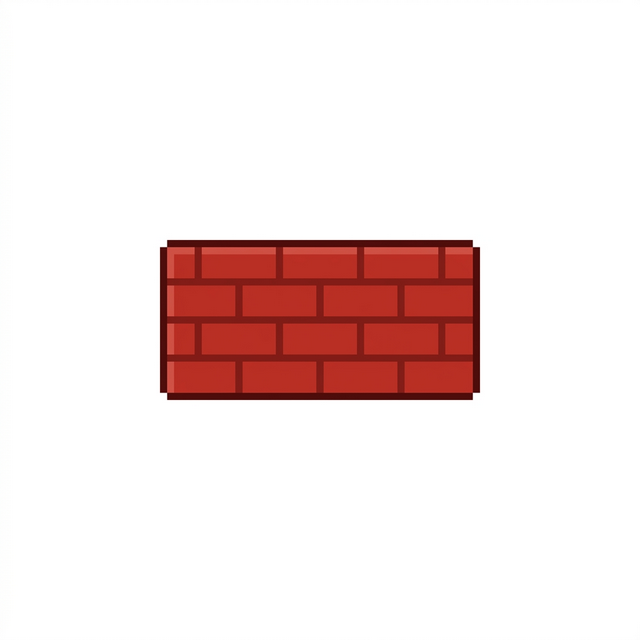
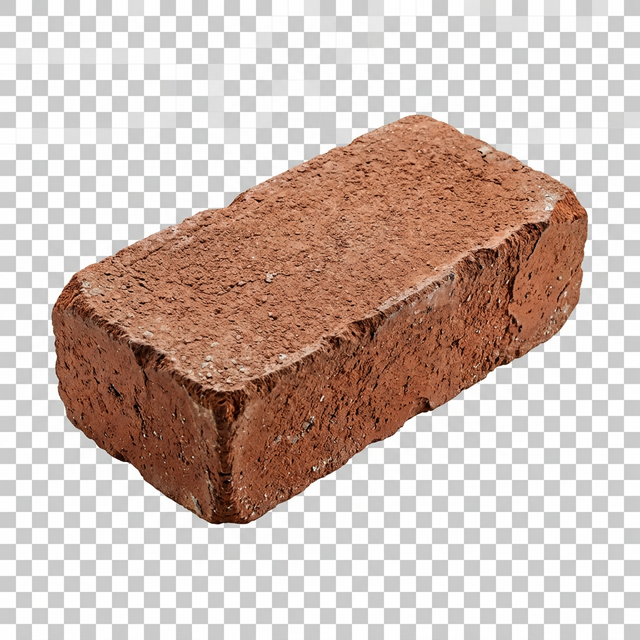
Fundos Out

diff --git a/script.js b/script.js
@@ -83,6 +83,8 @@ function setupLevel(levelIdx) {
     car = Bodies.rectangle(100, 100, 64, 32, {
         chamfer: { radius: 5 },
         frictionAir: 0.05,
+        friction: 0.2,
+        restitution: 0.1,
         render: {
             sprite: {
                 texture: 'assets/car.png',
@@ -112,17 +114,22 @@ function setupLevel(levelIdx) {
 }
 
 function spawnLevelElements(numPeople) {
-    // Obstáculos (Tijolos)
+    // Obstáculos (Tijolos) - Agora são barreiras físicas reais
     for (let i = 0; i < 15; i++) {
         const x = Math.random() * (window.innerWidth - 200) + 100;
         const y = Math.random() * (window.innerHeight - 200) + 100;
-        const brick = Bodies.rectangle(x, y, 40, 20, {
+
+        // Aumentamos o tamanho físico para garantir que bloqueiem o carro
+        const brick = Bodies.rectangle(x, y, 60, 30, {
             isStatic: true,
+            label: 'obstacle',
+            friction: 1,
+            restitution: 0.1, // Pouco rebote para parecer sólido
             render: {
                 sprite: {
                     texture: 'assets/brick.png',
-                    xScale: 0.1,
-                    yScale: 0.1
+                    xScale: 0.12, // Ajustado para a nova imagem transparente
+                    yScale: 0.12
                 }
             }
         });
@@ -140,8 +147,8 @@ function spawnLevelElements(numPeople) {
             render: {
                 sprite: {
                     texture: 'assets/stickman.png',
-                    xScale: 0.1,
-                    yScale: 0.1
+                    xScale: 0.15, // Ajustado para a nova imagem transparente
+                    yScale: 0.15
                 }
             }
         });
@@ -155,6 +162,7 @@ function handleKeyDown(e) {
 
     const angle = car.angle;
     const force = gameConfig.car.speed;
+    const maxVelocity = 4; // Limite de velocidade para evitar atravessar paredes
 
     if (e.key === 'ArrowUp') {
         Body.applyForce(car, car.position, {
@@ -168,6 +176,15 @@ function handleKeyDown(e) {
             y: -Math.sin(angle) * (force * 0.5)
         });
     }
+
+    // Limitar velocidade
+    const velocity = car.velocity;
+    const speed = Math.sqrt(velocity.x * velocity.x + velocity.y * velocity.y);
+    if (speed > maxVelocity) {
+        const ratio = maxVelocity / speed;
+        Body.setVelocity(car, { x: velocity.x * ratio, y: velocity.y * ratio });
+    }
+
     if (e.key === 'ArrowLeft') {
         Body.rotate(car, -gameConfig.car.turnSpeed);
     }
